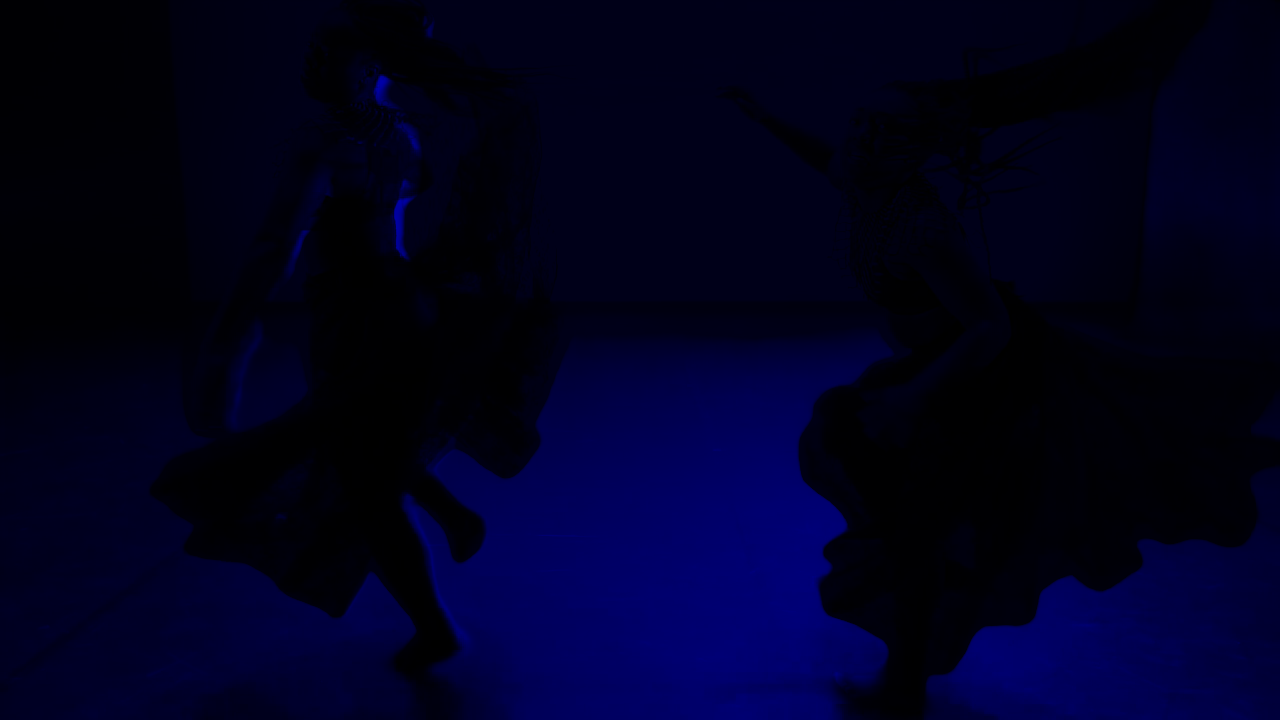
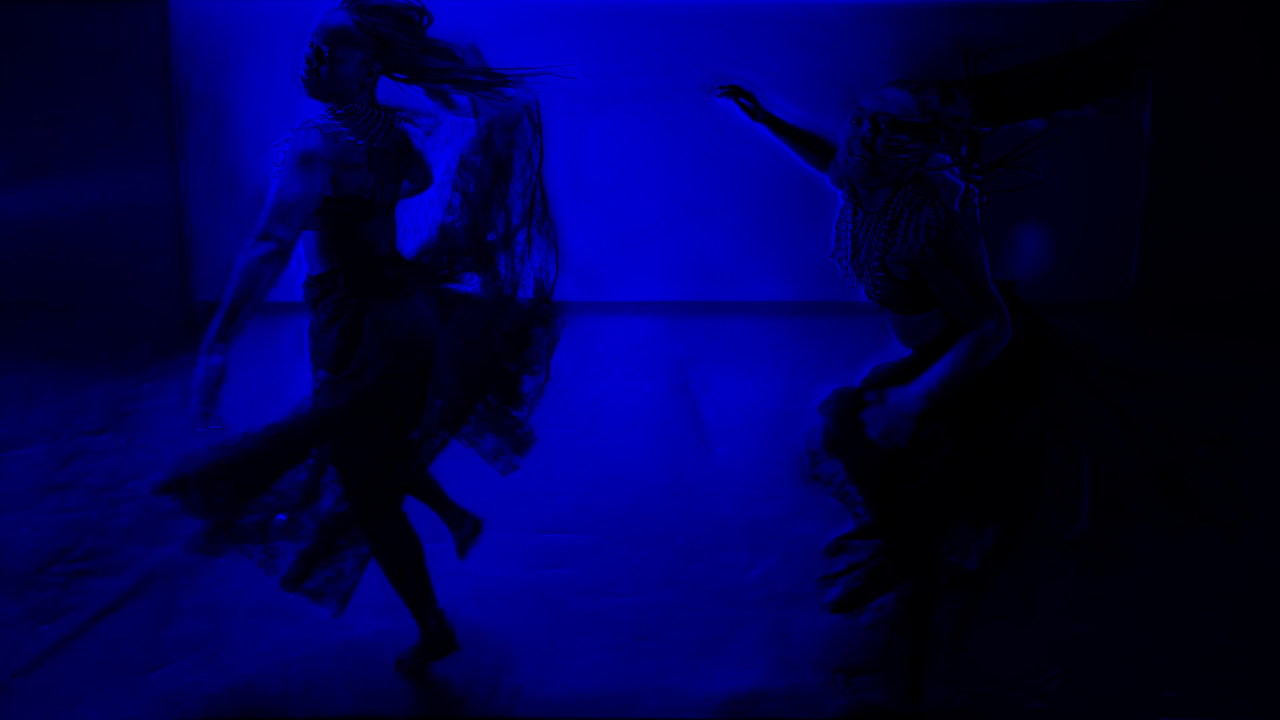
add occlusion and linear transformation

diff --git a/relight_in_linear.py b/relight_in_linear.py
@@ -21,19 +21,23 @@ def relight_image(rgb_image, depth_map, normal_map, light_position, light_color)
     height, width, _ = rgb_image.shape
     new_rgb_image = np.zeros_like(rgb_image)
 
+    # Convert sRGB to linear RGB
+    rgb_image_linear = sRGB_to_linear(rgb_image / 255.0)
+    light_color_linear = sRGB_to_linear(np.array(light_color) / 255.0)
+
     # Convert depth map to float
     depth_map = depth_map.astype(np.float32) 
 
     # Phong reflection model parameters
-    ambient_coefficient = 0.05
-    diffuse_coefficient = 0.3
+    ambient_coefficient = 0
+    diffuse_coefficient = 0.2
     specular_coefficient = 0
     shininess = 32
 
     # foreground_position = np.array((308, 148, depth_map[148, 308]))
     # foreground_position_2 = np.array((452, 131, depth_map[131, 452]))
     light_position = np.array(light_position)
-    light_color = np.array(light_color) / 255.0
+    # light_color = np.array(light_color) / 255.0
 
     for y in range(height):
         for x in range(width):
@@ -63,9 +67,9 @@ def relight_image(rgb_image, depth_map, normal_map, light_position, light_color)
             specular_intensity = max(np.dot(view_vector, reflect_vector), 0) ** shininess  * depth_factor
 
             # Combine components
-            ambient = ambient_coefficient * light_color 
-            diffuse = diffuse_coefficient * diffuse_intensity * light_color
-            specular = specular_coefficient * specular_intensity * light_color
+            ambient = ambient_coefficient * light_color_linear 
+            diffuse = diffuse_coefficient * diffuse_intensity * light_color_linear
+            specular = specular_coefficient * specular_intensity * light_color_linear
 
             color = (ambient + diffuse + specular) 
             # color = np.clip(color, 0, 1)
@@ -110,9 +114,14 @@ def relight_image(rgb_image, depth_map, normal_map, light_position, light_color)
             #     print("Color: ", color)
 
             # Apply the lighting to the original color
-            original_color = rgb_image[y, x] / 255.0
-            new_color = original_color + color
-            new_rgb_image[y, x] = np.clip(new_color * 255, 0, 255)
+            original_color_linear = rgb_image_linear[y, x]
+            new_color_linear = original_color_linear + color
+
+            # Convert back to sRGB for display purposes (if needed)
+            new_color_sRGB = np.clip(new_color_linear, 0, 1) ** (1 / 2.2)  # Gamma correction for display
+
+            # Update the image with relighted colors
+            new_rgb_image[y, x] = np.clip(new_color_sRGB * 255, 0, 255)
 
     # draw a circle on the selected position
     cv2.circle(new_rgb_image, (light_position[0], light_position[1]), 5, (255, 0, 0), -1)
@@ -121,8 +130,12 @@ def relight_image(rgb_image, depth_map, normal_map, light_position, light_color)
 
     return new_rgb_image.astype(np.uint8)
 
+def sRGB_to_linear(rgb):
+    linear = np.where(rgb <= 0.04045, rgb / 12.92, ((rgb + 0.055) / 1.055) ** 2.4)
+    return linear
+
 # Paths to your images
-sample = 3
+sample = 2
 rgb_image_path = 'sample_' + str(sample) + '/inputs/rgb_image.png'
 depth_map_path = 'sample_' + str(sample) + '/inputs/depth_map.png'
 normal_map_path = 'sample_' + str(sample) + '/inputs/normal_map.png'
@@ -151,7 +164,7 @@ white_light = [255, 255, 255]  # Example light color (white)
 red_light = [0, 0, 255]  
 green_light = [0, 255, 0] 
 blue_light = [255, 0, 0] 
-light_z = 100                  # Fixed z-coordinate for the light  
+light_z = 220                  # Fixed z-coordinate for the light  
 
 # Initialize a global variable to store the selected position
 selected_position = None
